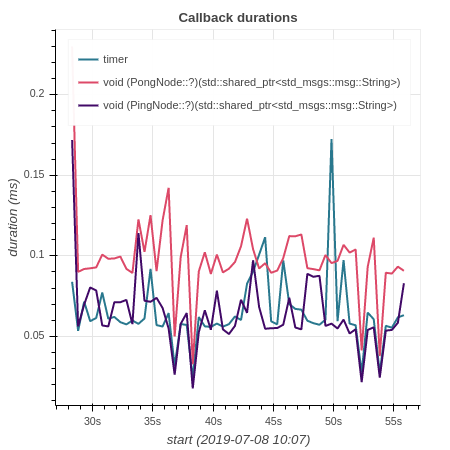
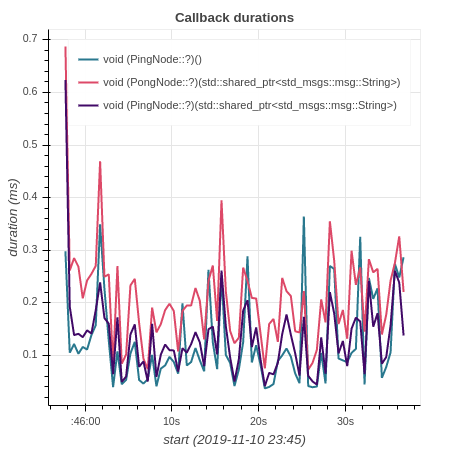
Update tracing tutorial (#80)
* Remove 'upcoming work' list

* Update tracing commands and tutorial

* Update process command output figure

* Update tracing tutorial plots

* Re-word clone section and add details

* Remove dashing tracing setup section

diff --git a/_docs/tutorials/advanced/tracing/index.md b/_docs/tutorials/advanced/tracing/index.md
@@ -48,29 +48,22 @@ If the ROS 2 development tools and dependencies are not installed on your machin
 Now we'll download all the necessary packages. First, create your workspace.
 
 ```bash
-$ mkdir ~/ros2_ws
+$ mkdir -p ~/ros2_ws/src
 $ cd ros2_ws/
 ```
 
-Then clone everything using the following `.repos` file. It includes the core ROS 2 packages with instrumented versions of `rcl` and `rclcpp`, as well as the tracing tools and tracing analysis repos.
+The `rcl` and `rclcpp` instrumentation has been integrated into Eloquent, so we simply need to recompile `ros2_tracing` & compile `tracetools_analysis`.
 
-#### Clone source on ROS 2 eloquent
 ```bash
 $ wget https://gitlab.com/micro-ROS/ros_tracing/ros2_tracing/raw/master/tracing.repos
 $ vcs import src < tracing.repos
 ```
-#### Clone source on ROS 2 dashing
-You can also use tracing on dashing already, but will have to build from scratch
-```bash
-$ wget https://gitlab.com/micro-ROS/ros_tracing/ros2_tracing/raw/master/all.repos
-$ vcs import src < all.repos
-```
 
-#### Let's build everything and source!
+Now let's build and source.
 
 ```bash
-$ colcon build --symlink-install --cmake-args " -DWITH_LTTNG=ON"
-$ source ./install/local_setup.bash
+$ colcon build --symlink-install
+$ source install/local_setup.bash
 ```
 
 ## Simple tracing example
@@ -91,7 +84,7 @@ $ ros2 launch tracetools_launch example.launch.py
 
 As shown above, you should see a few output lines, and that's it.
 
-You can take a look at the trace's events using `babeltrace`.
+By default, traces are written in the `~/.ros/tracing/` directory. You can take a look at the trace's events using `babeltrace`.
 
 ```bash
 $ cd ~/.ros/tracing/
@@ -108,13 +101,12 @@ $ babeltrace my-tracing-session/ust/
 <img src="/img/tutorials/tracing_babeltrace.svg" style="padding: 10px;" />
 </center>
 
-The last part of the `babeltrace` output is shown above. This is a human-readable version of the raw Common Trace Format (CTF) data, which is a list of events. Each event has a timestamp, an event type, some information on the process that generated the event, and the fields corresponding to the event type. The last events of our trace are pairs of `ros2:callback_start` and `ros2:callback_end` events. Each contains a reference to its corresponding callback.
+The last part of the `babeltrace` output is shown above. This is a human-readable version of the raw Common Trace Format (CTF) data, which is a list of events. Each event has a timestamp, an event type, some information on the process that generated the event, and the fields corresponding to the event type. The last events of our trace are pairs of `ros2:callback_start` and `ros2:callback_end` events. Each one contains a reference to its corresponding callback.
 
-It's now time to process the trace data! The `tracetools_analysis` package provides tools to import and process the results. We can first convert the CTF data to a pickle file. Then we can process it to get `pandas` dataframes which we can use later to run analyses.
+It's now time to process the trace data! The `tracetools_analysis` package provides tools to import a trace and process it. Since reading a CTF trace is slow, it first converts it to a file which we can read much faster later on. Then we can process it to get `pandas` dataframes and use those to run analyses.
 
 ```bash
-$ ros2 run tracetools_analysis convert ~/.ros/tracing/my-tracing-session/ust
-$ ros2 run tracetools_analysis process ~/.ros/tracing/my-tracing-session/ust/pickle
+$ ros2 trace-analysis process ~/.ros/tracing/my-tracing-session/ust/
 ```
 
 <center>
@@ -143,16 +135,6 @@ The resulting plots for the `/ping` and `/pong` subscriptions are shown below. W
 <img src="/img/tutorials/tracing_analysis_plots.png" />
 </center>
 
-## Upcoming work
+## Relevant links
 
-Now that the groundwork is done, the next steps are:
-
-* Submit PRs for `rcl` and `rclcpp` instrumentation. We are aiming for the instrumentation to be included in ROS 2 Eloquent (November 2019).
-* Add more analyses.
-* Test on real hardware, and compare analysis results to other tools.
-* Release first version of packages.
-* Work on providing swappable `tracetools` packages (a default package with tracing being disabled, and another one with tracing being enabled).
-
-The tracing packages can be found [here](https://gitlab.com/micro-ROS/ros_tracing/ros2_tracing). The analysis tools can be found [here](https://gitlab.com/micro-ROS/ros_tracing/tracetools_analysis).
-
-Let us know if you have any questions, or if you'd like to get involved!
+The tracing packages can be found in the [`ros2_tracing` repo](https://gitlab.com/micro-ROS/ros_tracing/ros2_tracing). The analysis tools can be found in the [`tracetools_analysis` repo](https://gitlab.com/micro-ROS/ros_tracing/tracetools_analysis).
